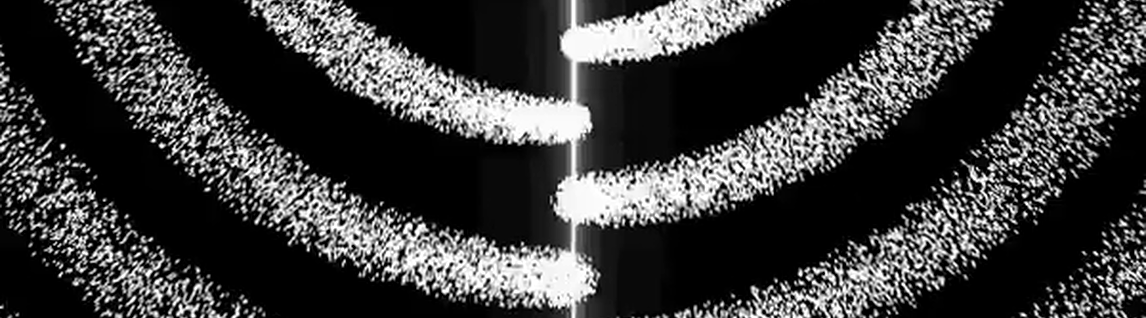
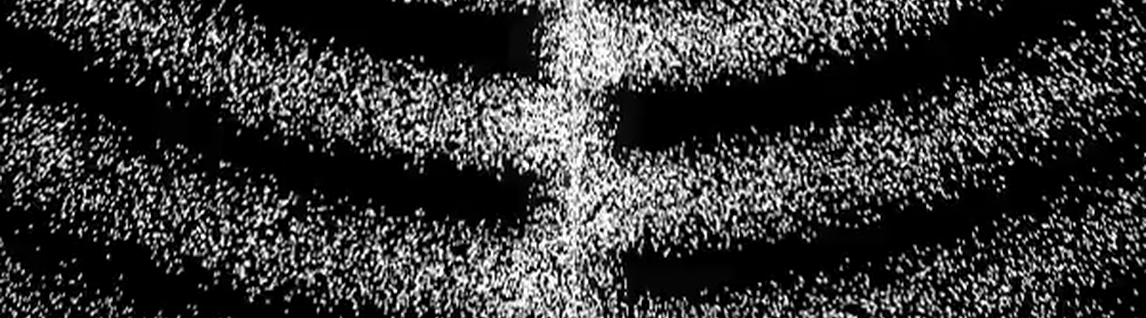
Raise TwiGal 03 pointed spiral in Dock frame

diff --git a/scripts/prepare_twigal_batch.py b/scripts/prepare_twigal_batch.py
@@ -58,6 +58,13 @@ def prepare(source, output):
             "fps=6,scale=1146:318:force_original_aspect_ratio=increase:flags=lanczos,"
             "crop=1146:318:0:(ih-oh)/2+180,setsar=1,format=rgb24"
         )
+    elif theme_id == "twigal-mp4-03":
+        # Raise the artwork inside the Dock so the lower pointed end of the
+        # vertical spiral remains visible instead of falling below the crop.
+        filters = (
+            "fps=6,scale=1146:318:force_original_aspect_ratio=increase:flags=lanczos,"
+            "crop=1146:318:0:(ih-oh)/2+620,setsar=1,format=rgb24"
+        )
     else:
         filters = ("fps=6," if animated else "") + (
             "scale=1146:318:force_original_aspect_ratio=increase:flags=lanczos,"
